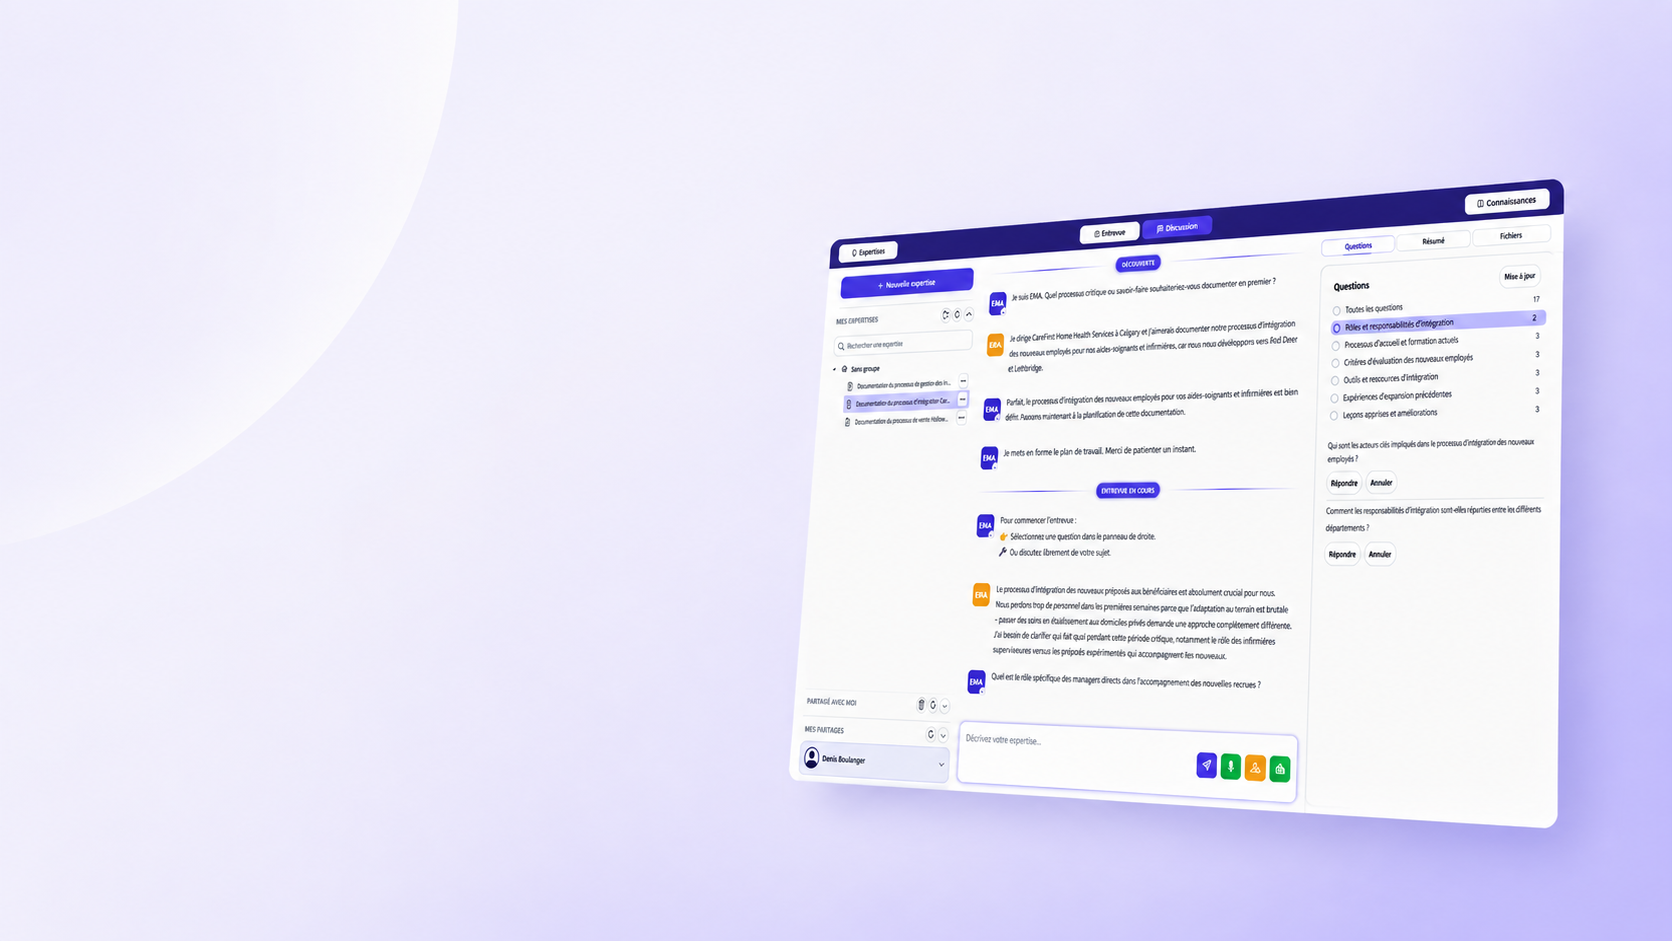
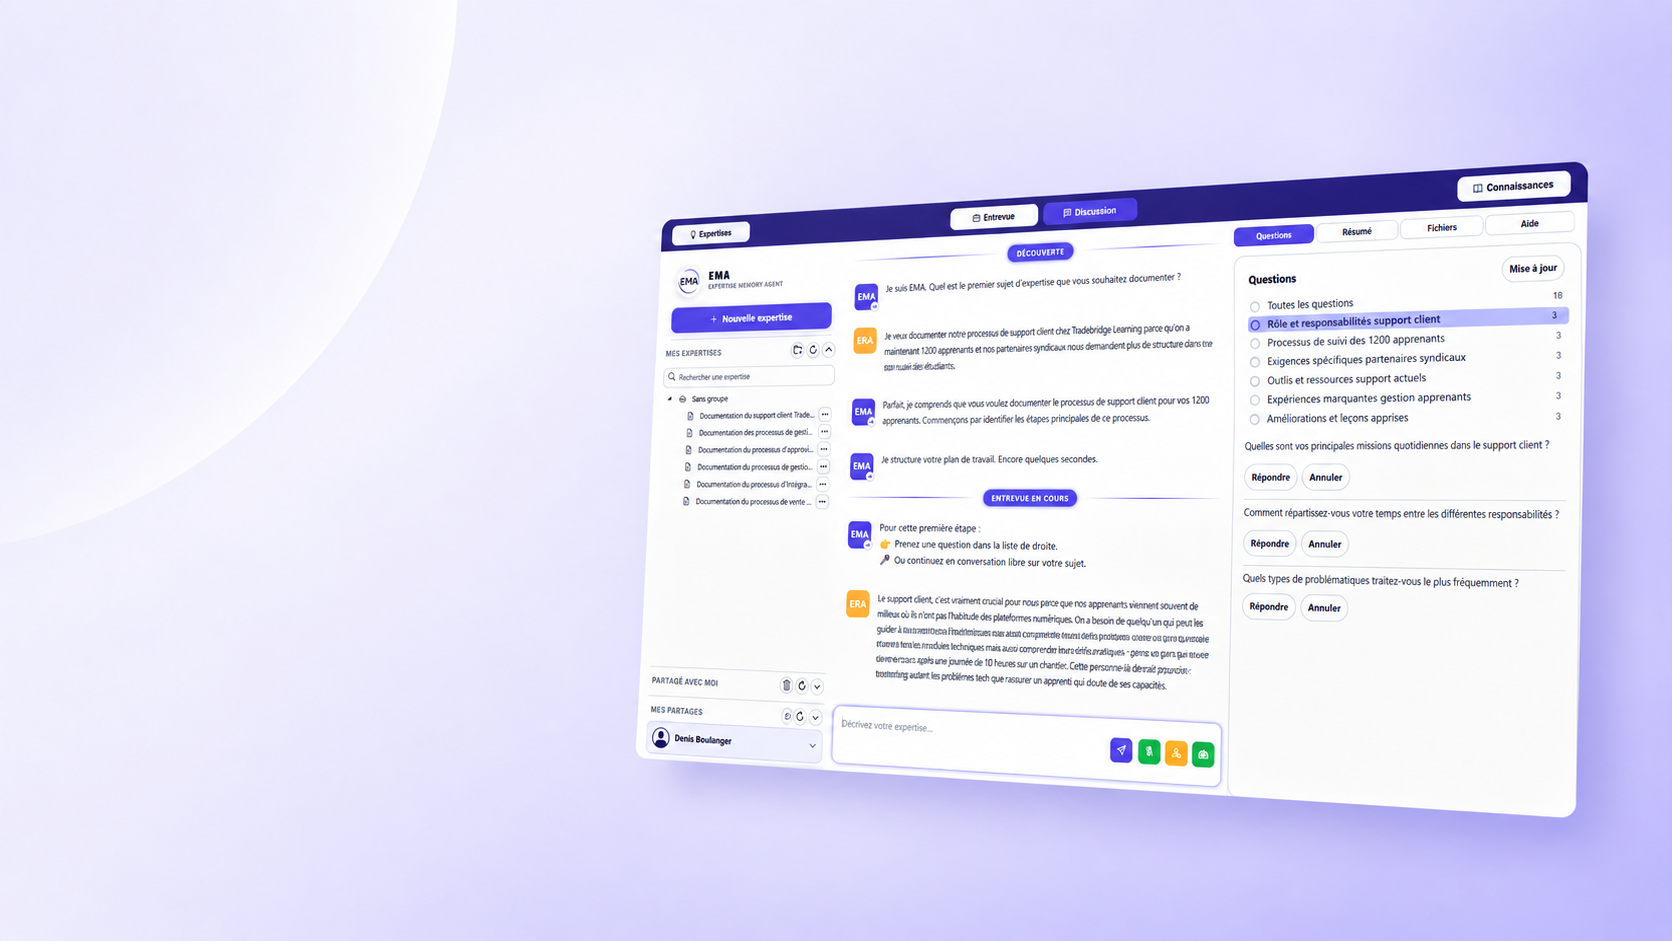
Refactor code structure for improved readability and maintainability

Changed region(s): [[0.3732, 0.1541, 0.9641, 0.8937]]

diff --git a/serve_frontend.py b/serve_frontend.py
@@ -13,7 +13,7 @@ from dotenv import load_dotenv
 
 load_dotenv()
 
-PORT = int(os.getenv("FRONTEND_PORT", "3000"))
+PORT = int(os.getenv("FRONTEND_PORT", "3001"))
 BASE_DIR = Path(__file__).parent
 
 
